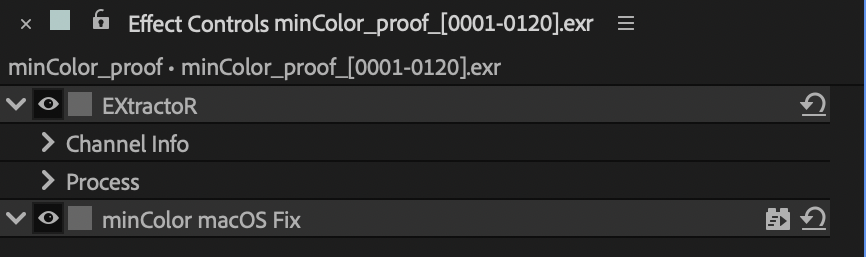
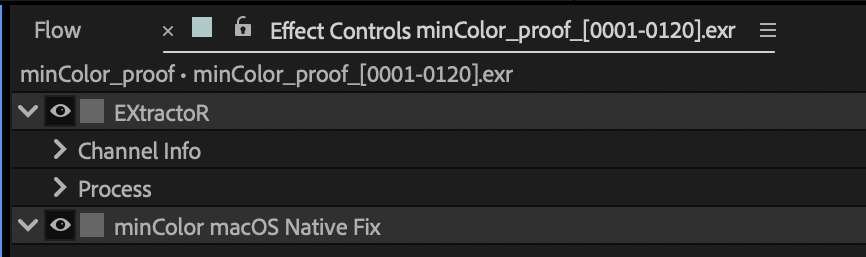
Docs: the display menu and the fix effect's screenshots retaken with the 0.1.8 names

Changed region(s): [[0.0, 0.0, 1.0, 1.0]]

diff --git a/CHANGELOG.md b/CHANGELOG.md
@@ -23,8 +23,6 @@ Names and documentation only. No picture changes.
 - The effect keeps its internal name and its file name: projects and presets
   that use it open unchanged, and the new files copy over the old ones.
 - Apple's XDR displays are not covered by the fix or its documentation.
-- The screenshots of the viewer's display menu and of the effect still show the
-  old names.
 
 ## 0.1.7 (2026-11-19)
 

diff --git a/docs/quick-start.md b/docs/quick-start.md
@@ -42,7 +42,7 @@ To change those assumptions for this project, press **In Rules…**. See
 
 At the bottom of the Composition panel, choose the display you are looking at:
 
-<img src="images/viewer_display_menu.png" width="420" alt="The viewer's display menu">
+<img src="images/viewer_display_menu.png" width="480" alt="The viewer's display menu">
 
 | You are on | Choose |
 | --- | --- |
